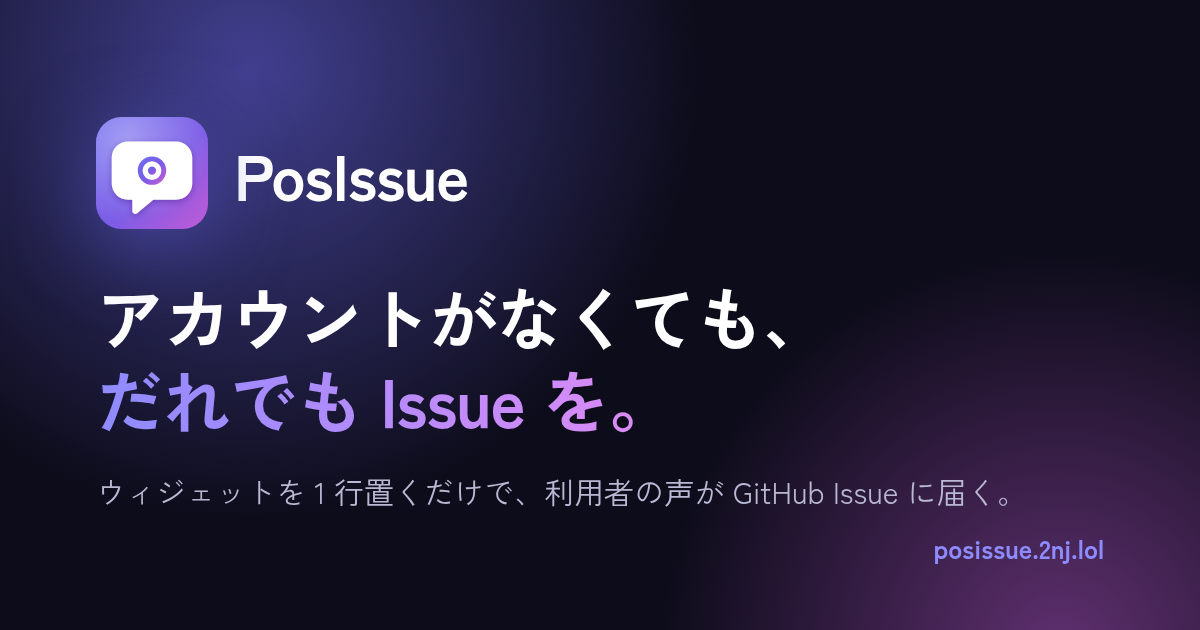
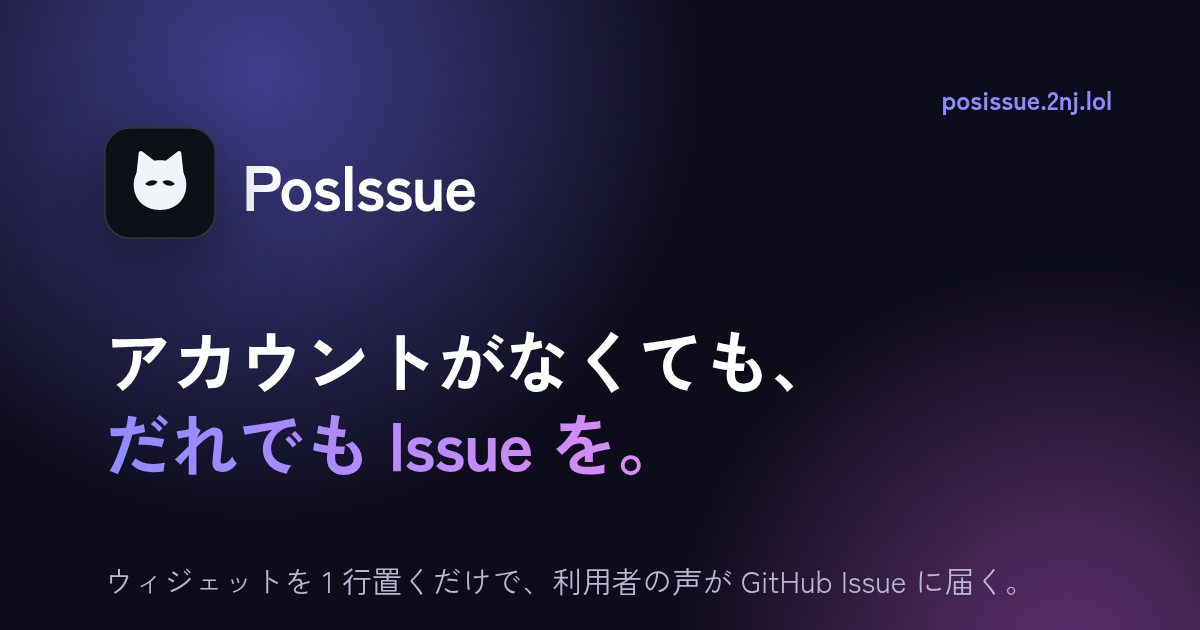
アイコンをクールなねこ（スリット目）に変更し、OGP 画像と README（日英）を更新

diff --git a/packages/server/src/pages.ts b/packages/server/src/pages.ts
@@ -278,7 +278,7 @@ ${o_}/r/pk_xxx?app_version=1.2.0&amp;os=ios`],
 <a class="ib" href="/admin" aria-label="${t("管理画面", "Dashboard")}" title="${t("管理画面", "Dashboard")}"><svg width="18" height="18" viewBox="0 0 24 24" fill="none" stroke="currentColor" stroke-width="2" stroke-linecap="round" stroke-linejoin="round" aria-hidden="true"><rect x="3" y="3" width="7" height="9" rx="1.5"/><rect x="14" y="3" width="7" height="5" rx="1.5"/><rect x="14" y="12" width="7" height="9" rx="1.5"/><rect x="3" y="16" width="7" height="5" rx="1.5"/></svg></a>
 <a class="ib" href="${esc(o.repoUrl)}" aria-label="GitHub" title="GitHub">${GH_ICON.replace('width="14" height="14"', 'width="18" height="18"')}</a></div></div></nav>
 <header class="hero"><div class="w"><div>
-<img src="/icon.svg" alt="PosIssue" width="72" height="72" style="display:block;margin-bottom:18px;filter:drop-shadow(0 12px 28px rgba(91,91,214,.35))"><span class="pill">${t("OSS のための報告ウィジェット", "A feedback widget for open source")}</span>
+<img src="/icon.svg" alt="PosIssue" width="72" height="72" style="display:block;margin-bottom:18px;filter:drop-shadow(0 12px 28px rgba(13,17,23,.35))"><span class="pill">${t("OSS のための報告ウィジェット", "A feedback widget for open source")}</span>
 <h1>${t("<span>アカウントがなくても、</span><br><em>だれでも Issue を。</em>", "<span>No account needed.</span><br><em>Anyone can file an issue.</em>")}</h1>
 <p class="lead">${t("サイトやアプリにウィジェットを 1 行置くだけ。利用者からのバグ報告や要望が、あなたのリポジトリに GitHub Issue として届きます。", "Add one line to your site or app. Bug reports and feature requests from your users arrive in your repository as GitHub issues.")}</p>
 <div class="cta"><a class="btn p" href="${esc(install)}">${t("GitHub App をインストール →", "Install the GitHub App →")}</a><a class="btn" href="/admin">${t("管理画面", "Dashboard")}</a><a class="btn" href="${esc(o.repoUrl)}">${t("ソースを見る", "View source")}</a></div>
@@ -351,7 +351,7 @@ ${o.demoKey ? `<script src="/widget.js" data-key="${esc(o.demoKey)}" data-lang="
 }
 
 // docs/images/icon.svg と同じ内容（README 用と配信用）。アイコンを変えるときは両方を更新する
-export const ICON_SVG = "<svg xmlns=\"http://www.w3.org/2000/svg\" viewBox=\"0 0 512 512\" role=\"img\" aria-label=\"PosIssue\">\n  <defs>\n    <linearGradient id=\"bg\" x1=\"0\" y1=\"0\" x2=\"1\" y2=\"1\">\n      <stop offset=\"0\" stop-color=\"#6d6af0\"/>\n      <stop offset=\".55\" stop-color=\"#7c5ce6\"/>\n      <stop offset=\"1\" stop-color=\"#c25bd6\"/>\n    </linearGradient>\n    <radialGradient id=\"glow\" cx=\".28\" cy=\".2\" r=\".75\">\n      <stop offset=\"0\" stop-color=\"#fff\" stop-opacity=\".35\"/>\n      <stop offset=\"1\" stop-color=\"#fff\" stop-opacity=\"0\"/>\n    </radialGradient>\n    <filter id=\"sh\" x=\"-20%\" y=\"-20%\" width=\"140%\" height=\"150%\">\n      <feDropShadow dx=\"0\" dy=\"10\" stdDeviation=\"14\" flood-color=\"#2a1170\" flood-opacity=\".35\"/>\n    </filter>\n  </defs>\n  <rect width=\"512\" height=\"512\" rx=\"116\" fill=\"url(#bg)\"/>\n  <rect width=\"512\" height=\"512\" rx=\"116\" fill=\"url(#glow)\"/>\n  <!-- 吹き出し（フィードバック） -->\n  <path filter=\"url(#sh)\" fill=\"#fff\"\n    d=\"M146 112h220c41 0 74 33 74 74v118c0 41-33 74-74 74H262l-74 62c-9 8-22 1-22-10v-52h-20c-41 0-74-33-74-74V186c0-41 33-74 74-74z\"/>\n  <!-- Issue のマーク（開いた Issue の丸） -->\n  <circle cx=\"256\" cy=\"245\" r=\"54\" fill=\"none\" stroke=\"url(#bg)\" stroke-width=\"22\"/>\n  <circle cx=\"256\" cy=\"245\" r=\"19\" fill=\"url(#bg)\"/>\n</svg>";
+export const ICON_SVG = "<svg xmlns=\"http://www.w3.org/2000/svg\" viewBox=\"0 0 512 512\" role=\"img\" aria-label=\"PosIssue\">\n  <defs>\n    <mask id=\"eyes\" maskUnits=\"userSpaceOnUse\" x=\"0\" y=\"0\" width=\"512\" height=\"512\">\n      <rect width=\"512\" height=\"512\" fill=\"#fff\"/>\n      <path d=\"M164 262c22-24 52-30 78-14-18 26-48 34-78 14z\"/>\n      <path d=\"M348 262c-22-24-52-30-78-14 18 26 48 34 78 14z\"/>\n    </mask>\n  </defs>\n  <rect x=\"4\" y=\"4\" width=\"504\" height=\"504\" rx=\"114\" fill=\"#0d1117\" stroke=\"#30363d\" stroke-width=\"8\"/>\n  <g transform=\"translate(64 64) scale(.75)\" fill=\"#f0f6fc\" mask=\"url(#eyes)\">\n    <path d=\"M96 268c0-92 68-150 160-150s160 58 160 150-68 152-160 152S96 360 96 268z\"/>\n    <path d=\"M110 222 126 74c1-12 13-17 22-10l92 70z\"/>\n    <path d=\"M402 222 386 74c-1-12-13-17-22-10l-92 70z\"/>\n  </g>\n</svg>";
 
 /** key=null は運営が停止中。origins は埋め込みを許すサイト（空なら制限なし）、dailyLimit は 1 日の上限（null は既定値） */
 export interface PendingItem { id: string; title: string; body: string; createdAt: number }

diff --git a/docs/images/og.html b/docs/images/og.html
@@ -4,14 +4,14 @@
 body{width:1200px;height:630px;overflow:hidden;font-family:"Noto Sans JP","Hiragino Sans",system-ui,sans-serif;background:#0d0c1a;color:#fff;position:relative}
 .g1{position:absolute;width:900px;height:900px;left:-200px;top:-380px;background:radial-gradient(closest-side,rgba(109,106,240,.55),transparent)}
 .g2{position:absolute;width:800px;height:800px;right:-260px;bottom:-420px;background:radial-gradient(closest-side,rgba(194,91,214,.45),transparent)}
-.w{position:relative;height:100%;padding:84px 96px;display:flex;flex-direction:column;justify-content:center}
-.top{display:flex;align-items:center;gap:26px;margin-bottom:46px}
-.top img{width:112px;height:112px;filter:drop-shadow(0 18px 40px rgba(91,91,214,.55))}
+.w{position:relative;height:100%;padding:56px 96px 88px;display:flex;flex-direction:column;justify-content:center}
+.top{display:flex;align-items:center;gap:26px;margin-bottom:34px}
+.top img{width:112px;height:112px;filter:drop-shadow(0 18px 40px rgba(0,0,0,.5))}
 .name{font-size:64px;font-weight:800;letter-spacing:-.02em}
 h1{font-size:68px;line-height:1.22;font-weight:800;letter-spacing:-.02em}
 h1 em{font-style:normal;background:linear-gradient(90deg,#8d8bff,#e08bf5);-webkit-background-clip:text;background-clip:text;color:transparent}
 p{margin-top:28px;font-size:30px;color:#b9b8d3}
-.url{position:absolute;right:96px;bottom:64px;font-size:26px;color:#8d8bff;font-weight:600}
+.url{position:absolute;right:96px;top:72px;font-size:26px;color:#8d8bff;font-weight:600}
 </style></head><body><div class="g1"></div><div class="g2"></div><div class="w">
 <div class="top"><img src="icon.svg"><span class="name">PosIssue</span></div>
 <h1>アカウントがなくても、<br><em>だれでも Issue を。</em></h1>

diff --git a/README.en.md b/README.en.md
@@ -1,0 +1,81 @@
+<div align="center">
+
+<img src="docs/images/icon.svg" alt="PosIssue" width="112" height="112">
+
+# PosIssue
+
+**No GitHub account? Anyone can file an issue.**
+
+Add one line to your site or app, and bug reports and feature requests from your users<br>
+arrive in your open-source repository as GitHub issues.
+
+[![Release](https://img.shields.io/github/v/release/ninjin0802/posissue?color=1f2328&label=release)](https://github.com/ninjin0802/posissue/releases)
+[![CI](https://github.com/ninjin0802/posissue/actions/workflows/ci.yml/badge.svg)](https://github.com/ninjin0802/posissue/actions/workflows/ci.yml)
+[![License: MIT](https://img.shields.io/badge/license-MIT-1f2328.svg)](LICENSE)
+
+**[🌐 posissue.2nj.lol](https://posissue.2nj.lol/?lang=en)** · [Install the GitHub App](https://github.com/apps/posissue/installations/new) · [Dashboard](https://posissue.2nj.lol/admin) · [Changelog](https://posissue.2nj.lol/en/changelog) · [日本語](README.md)
+
+</div>
+
+---
+
+## Features
+
+- 🙋 **No account needed** — reporters don’t need GitHub, and no personal data is collected.
+- 🧩 **One-line setup** — a `<script>` tag on websites, or a URL opened in an app WebView.
+- 📐 **Typed forms** — one `FormTemplate` defines the UI, validation and issue body.
+- 🛡 **Spam protection** — Turnstile, honeypot, rate limits, duplicate detection, neutralized @mentions.
+- ✅ **Approval mode** — review reports before they become issues (on by default for public repositories).
+- 🗂 **Dashboard** — keys, allowed sites, daily limits, approval mode and pending reports.
+- 🌗 **A beautiful form** — automatic light/dark and a Japanese/English switch.
+- 🤖 **AI-friendly** — [`/llms.txt`](https://posissue.2nj.lol/llms.txt) and a CLI for coding agents.
+
+## Getting started
+
+1. Install the [GitHub App](https://github.com/apps/posissue/installations/new) on your repository. You get a project key (`pk_...`).
+2. Add the widget:
+
+```html
+<script src="https://posissue.2nj.lol/widget.js" data-key="pk_xxx" data-lang="en" async></script>
+```
+
+   In apps, open `https://posissue.2nj.lol/r/pk_xxx?lang=en&app_version=1.2.0&os=ios` in a WebView.
+
+3. Reports arrive as issues labeled `via-widget` (in approval mode, after you click “Publish” in the dashboard).
+
+Find your keys any time at **[posissue.2nj.lol/admin](https://posissue.2nj.lol/admin)** or with the CLI (Node 18+):
+
+```sh
+npx github:ninjin0802/posissue keys --json
+```
+
+The CLI prints a GitHub URL and a one-time code. **You sign in to GitHub yourself in the browser.**
+
+## Ask an AI to add it
+
+```text
+Read https://posissue.2nj.lol/llms.txt and add the PosIssue feedback widget to this project.
+```
+
+## Self-hosting
+
+```ts
+import { createHandler, type FormTemplate } from "@posissue/server";
+export default createHandler({ forms: [/* FormTemplate[] */] });
+```
+
+See the spec (`docs/spec/`, Japanese) for deployment. The spec is the single source of truth.
+
+## Notes
+
+- With a strict CSP, add `https://posissue.2nj.lol` to `script-src` and `frame-src`.
+- Replies to reporters and screenshot attachments are not supported yet.
+- The npm packages are not published yet.
+
+## Author
+
+**ninjin** — an indie developer who builds whatever catches their interest. [GitHub](https://github.com/ninjin0802) · [2nj.lol](https://2nj.lol)
+
+## License
+
+MIT. See the hosted service’s [Privacy Policy](https://posissue.2nj.lol/en/privacy) and [Terms](https://posissue.2nj.lol/en/terms).
